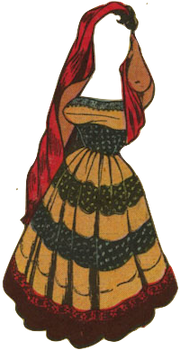
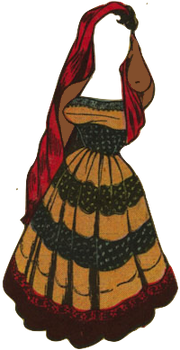
fixed image color added ipad and ipad pro views

Changed region(s): [[0.6944, 0.1143, 0.8611, 0.3143], [0.3333, 0.2286, 0.4722, 0.4286]]

diff --git a/styles.css b/styles.css
@@ -66,14 +66,6 @@ nav {
   z-index: 10;
 }
 
-#t31 {
-  height:39vh;
-}
-
-#t20 {
-  height: 50vh;
-}
-
 .torchy-hat {
   position: fixed;
   display: none;
@@ -123,6 +115,7 @@ background-image: url("images/t1.png");
   align-items: center;
 }
 .dress-show{
+  background-size: auto;
   background-repeat: no-repeat;
   background-position: center;
   height:250px;
@@ -257,7 +250,7 @@ background-image: url("images/t1.png");
   }
   #dress-box{
     position: fixed;
-    top: 90px; bottom:90px;
+    top: 10%; bottom:10%;
     left: 50px; right: 50px;
     background-color: rgba(252, 252, 212,.7);
   }
@@ -427,7 +420,7 @@ background-image: url("images/t1.png");
   }
 
   .dress-box-class {
-    top: 300px; bottom: 20px;
+    top: 15%; bottom: 20px;
     left:5px; right:5px;
   }
 
@@ -486,6 +479,138 @@ background-image: url("images/t1.png");
     height: 150px;
     top:300px; left:10%;
   }
+}
+@media only screen and (min-width: 768px) and (max-width: 1020px){
 
+  .torchy {
+    height: 1000px;
+    top: 5%;
+    position: absolute;
+    left:50%;
+    z-index: 4;
+  }
+
+  .torchy-dress {
+    height: 775px;
+    top:10%; left:15%;
+  }
+
+  .torchy-dress2 {
+    height: 615px;
+    top:10%; left:15%;
+  }
+
+  .torchy-dress3, .torchy-dress4{
+    height: 615px;
+    top:10%; left:15%;
+  }
+
+  .torchy-dress5 {
+    top:10%; left:15%;
+    height: 635px;
+  }
+
+  #t20 {
+    height: 835px;
+  }
+
+  .torchy-dress6 {
+    top:10%; left:15%;
+    height: 645px;
+  }
+
+
+
+  #t11, #t16{
+    left: 45%;
+  }
+
+  #t21 {
+    left:60%;
+  }
+
+  .dress-button-holder{
+    position: absolute;
+    top: 0;
+    left:10px;
+    width: 210px;
+    display: flex;
+    flex-direction: column;
+    align-items: center;
+  }
+
+  .dress-show{
+    background-size: auto;
+    background-repeat: no-repeat;
+    background-position: center;
+    height:220px;
+    width:200px;
+  }
+
+}
+@media only screen and (min-width: 1021px){
+
+  .torchy {
+    height: 1000px;
+    top: 5%;
+    position: absolute;
+    left:50%;
+    z-index: 4;
+  }
+
+  .torchy-dress {
+    height: 775px;
+    top:10%; left:15%;
+  }
+
+  .torchy-dress2 {
+    height: 615px;
+    top:10%; left:15%;
+  }
+
+  .torchy-dress3, .torchy-dress4{
+    height: 615px;
+    top:10%; left:15%;
+  }
+
+  .torchy-dress5 {
+    top:10%; left:15%;
+    height: 635px;
+  }
+
+  #t20 {
+    height: 835px;
+  }
+
+  .torchy-dress6 {
+    top:10%; left:15%;
+    height: 645px;
+  }
+
+  #t11, #t16{
+    left: 45%;
+  }
+
+  #t21 {
+    left:60%;
+  }
+
+  .dress-button-holder{
+    position: absolute;
+    top: 0;
+    left:10px;
+    width: 210px;
+    display: flex;
+    flex-direction: column;
+    align-items: center;
+  }
+
+  .dress-show{
+    background-size: auto;
+    background-repeat: no-repeat;
+    background-position: center;
+    height:220px;
+    width:200px;
+  }
 
 }
